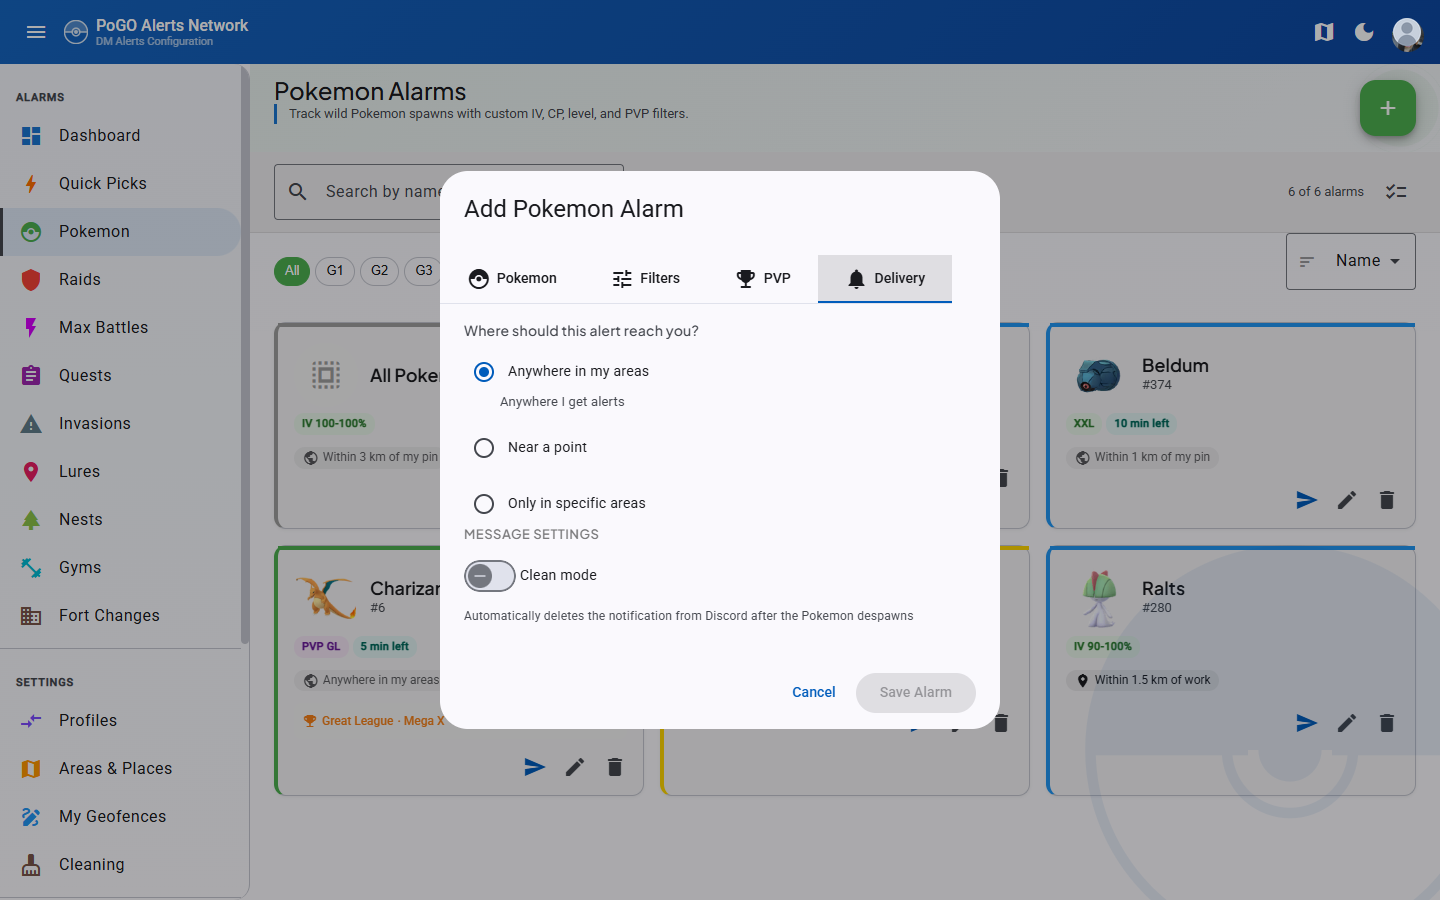
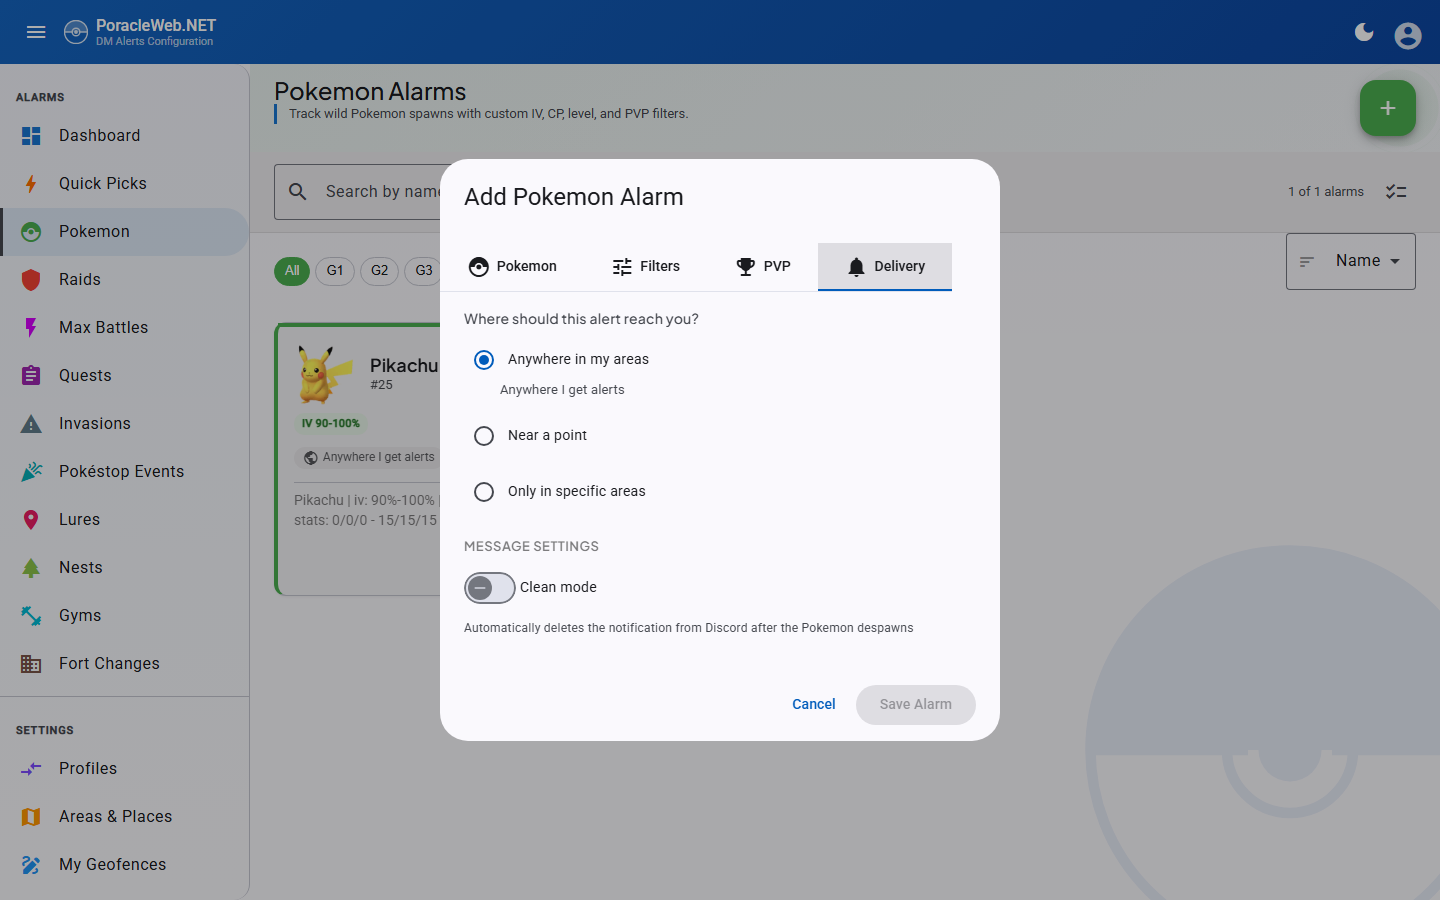
chore(docs): audit every screenshot for identity and branding leaks (#830)
* docs: strip deployment branding and a real avatar from six screenshots

An audit of all 70 committed screenshots found six leaking the
deployment's identity: the site title "PoGO Alerts Network" and the
custom back-to-map nav link in the toolbar, and on three of them the
account holder's Discord avatar photo still showing around the rim of
an undersized silhouette overlay pasted by an earlier pass.

pokemon-add-dialog, fort-changes-add-dialog and scope-picker were
retaken against an anonymous session on a dev instance, with the title
reset and the nav link removed before capture.

areas and both copies of user-menu had only their 64px toolbar band
replaced. Re-shooting them would have traded a configured pin, three
places and four selected areas for an empty-state page, and the band
splice was verified to differ from the original in exactly three
column runs: the title text, the nav icon and the avatar.

The remaining 64 images are clean.

* docs: retake three screenshots that showed a 200% IV rule

The Pikachu card behind the add dialog read "IV 200-100%" -- stray test
data from verifying a v2 tracking endpoint, not something documentation
should show. Retaken against a Pikachu rule filtered to 90-100% IV, same
framing and same anonymisation as before. The help page carried a
byte-identical copy of the same shot, so it is replaced too.

diff --git a/CHANGELOG.md b/CHANGELOG.md
@@ -30,6 +30,7 @@ and this project adheres to [Semantic Versioning](https://semver.org/spec/v2.0.0
 
 ### Fixed
 
+- **Six documentation screenshots carried the deployment's own branding, and two of them a real Discord avatar photo.** An audit of all seventy committed images found the site title "PoGO Alerts Network" in the toolbar of `areas`, `user-menu` (both the docs and in-app copies), `pokemon-add-dialog`, `fort-changes-add-dialog` and `scope-picker`, the operator's custom back-to-map nav link beside it, and beneath the grey silhouette placeholder on three of them the original avatar photo still showing around the rim, where an earlier pass had pasted a circle a few pixels too small. The three dialog shots were retaken against an anonymous session; `areas` and the two `user-menu` copies had the toolbar band replaced, which fixes all three leaks at once without discarding the configured pin, places and areas that made those images worth having. The other sixty-four images are clean.
 - **Deleting a saved place that alarms still point at says which alarms.** The refusal already carried the list, but each entry arrived as a fragment of raw JSON rather than a name, so there was nothing worth showing and the count was all anyone could use. It now reads as "raid 424". Deleting a place was also the last thing on this page still talking to Poracle's older API while everything around it had moved.
 - **Your alert language stops being forgotten when it is Portuguese (BR).** Poracle stores what it is given in lower case, so `pt-BR` comes back as `pt-br`, and the language picker was comparing the two exactly -- finding no match, discarding the answer and quietly falling back to the server's own language. It affected anyone whose alert language was set through the Poracle bot as well. The comparison ignores case now.
 - **Saving a place with a name you already have says so, instead of reporting a server error.** Poracle answers this one differently on its two API surfaces, and the newer answer -- a genuine refusal, with a reason -- was being read as the server having broken. So was a name too long for the column, which now never leaves the browser: 64 characters, said plainly, rather than a database error relayed verbatim.
@@ -54,7 +55,6 @@ and this project adheres to [Semantic Versioning](https://semver.org/spec/v2.0.0
 - **Every version requirement in the docs said 5.2.1 and every gate in the code says 5.2.0.** 5.2.1 is the release production happens to run, not the release that added the features, so a self-hoster on exactly 5.2.0 was told four working features were unavailable to them. Corrected on the compatibility page, and the page now names the three constants it is describing so the next drift is visible.
 - **The in-app help covers the new features too, in all eleven languages.** It gained a Quiet Periods section, an Active Hours section -- which the help had never explained despite the quest summary page referring readers to it twice -- and entries for costume filters, PokéCoin rewards, Pokéstop Events and the rule description on an alarm card. The FAQ's "why am I not getting alerts" list now includes a quiet period as a cause, since that one produces silence with no banner to spot, and gained an entry for the controls that appear only on a new enough Poracle server, which is the likeliest reason something the guide describes is not on your screen.
 - **Screenshots refreshed.** The dashboard, the Pokemon list, the profiles page, the quest dialog and the server versions card all showed a site that no longer exists, and new ones were taken for the Pokéstop Events dialog, the quiet sheet, the PokéCoins tab and a repeating schedule rule.
-- **The PoracleNG version compatibility page has been rewritten, and its premise replaced.** It described PoracleNG as having two long-lived branches and this site supporting both; develop shipped as 5.2.1 and merged, so the real question is 5.1.0 versus 5.2.1 and newer. It now covers how support is decided, why a database migration number is a better thing to gate on than a version string, which features need a newer server, how to add another, and two traps worth knowing: PoracleNG's v1 API is unchanged on 5.2.1 -- the new error format and status codes in its release notes apply to v2 only -- and its OpenAPI document numbers the days of the week differently from the scheduler that reads them.
 
 ## [2.17.1] - 2026-08-21
 
